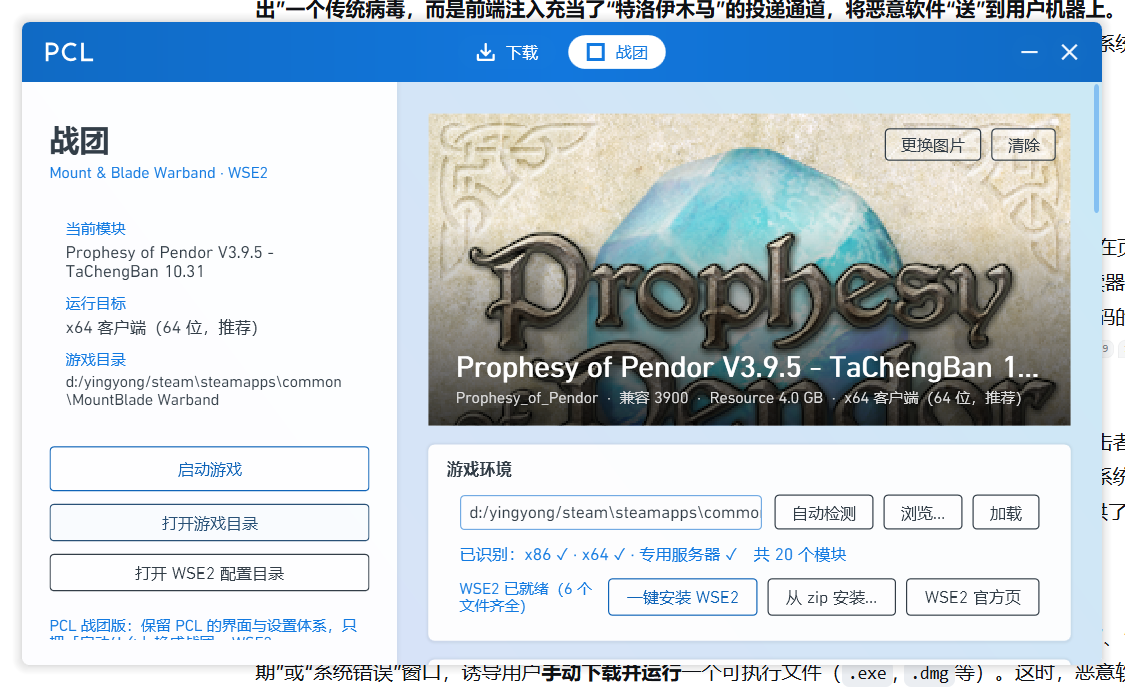
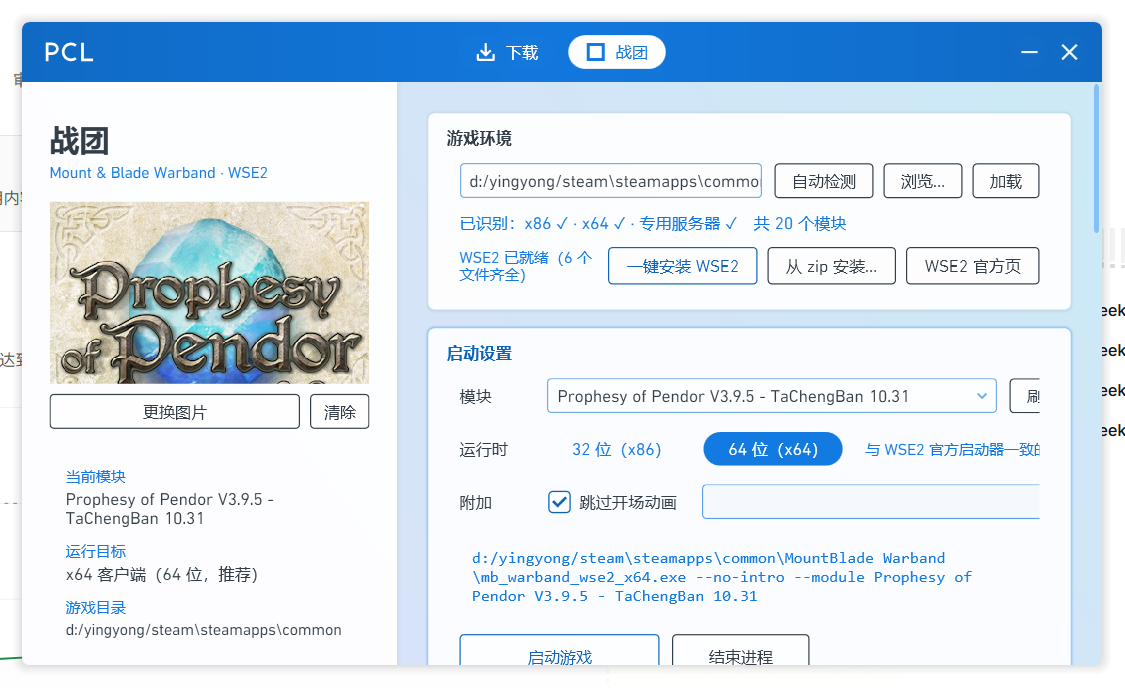
revert(warband): 撤掉顶部大横幅，恢复左侧栏模块预览图版式

diff --git a/Plain Craft Launcher 2/Pages/PageWarband/PageWarbandRight.xaml b/Plain Craft Launcher 2/Pages/PageWarband/PageWarbandRight.xaml
@@ -9,43 +9,7 @@
     <local:MyScrollViewer x:Name="PanBack" VerticalScrollBarVisibility="Auto" HorizontalScrollBarVisibility="Disabled">
         <StackPanel Margin="25,10">
 
-            <!-- 模块大图横幅（仿 WSE2 官方启动器：图在上、模块名压左下） -->
-            <Border CornerRadius="8" Height="250" Margin="0,15,0,0" ClipToBounds="True"
-                    Background="{DynamicResource ColorBrushSemiTransparent}">
-                <Grid>
-                    <local:MyImage x:Name="ImgBanner" Stretch="UniformToFill" />
-                    <Border x:Name="PanBannerEmpty">
-                        <StackPanel VerticalAlignment="Center" HorizontalAlignment="Center">
-                            <TextBlock Text="这个模块还没有预览图" FontSize="13" HorizontalAlignment="Center"
-                                       Foreground="{DynamicResource ColorBrush3}" />
-                            <TextBlock Text="点右上角「更换图片」选一张（png / jpg / webp / bmp）" FontSize="11"
-                                       Margin="0,6,0,0" HorizontalAlignment="Center"
-                                       Foreground="{DynamicResource ColorBrush3}" Opacity="0.8" />
-                        </StackPanel>
-                    </Border>
-                    <Border>
-                        <Border.Background>
-                            <LinearGradientBrush StartPoint="0,0.35" EndPoint="0,1">
-                                <GradientStop Color="#00000000" Offset="0" />
-                                <GradientStop Color="#C4000000" Offset="1" />
-                            </LinearGradientBrush>
-                        </Border.Background>
-                    </Border>
-                    <StackPanel VerticalAlignment="Bottom" Margin="22,0,22,16">
-                        <TextBlock x:Name="LabBannerTitle" Foreground="White" FontSize="22" FontWeight="Bold"
-                                   TextTrimming="CharacterEllipsis" />
-                        <TextBlock x:Name="LabBannerSub" Foreground="#DDDDDD" FontSize="12" Margin="0,5,0,0"
-                                   TextTrimming="CharacterEllipsis" />
-                    </StackPanel>
-                    <StackPanel Orientation="Horizontal" HorizontalAlignment="Right" VerticalAlignment="Top"
-                                Margin="0,12,12,0">
-                        <local:MyButton x:Name="BtnBannerChange" Text="更换图片" Height="26" Padding="12,3" />
-                        <local:MyButton x:Name="BtnBannerClear" Text="清除" Height="26" Padding="12,3" Margin="8,0,0,0" />
-                    </StackPanel>
-                </Grid>
-            </Border>
-
-            <local:MyCard Title="游戏环境" Margin="0,15">
+<local:MyCard Title="游戏环境" Margin="0,15">
                 <StackPanel Margin="25,40,25,20">
                     <Grid>
                         <Grid.ColumnDefinitions>

diff --git a/Plain Craft Launcher 2/Pages/PageWarband/PageWarbandLeft.xaml b/Plain Craft Launcher 2/Pages/PageWarband/PageWarbandLeft.xaml
@@ -12,7 +12,31 @@
             <TextBlock Text="Mount &amp; Blade Warband · WSE2" Margin="0,6,0,0" FontSize="12"
                        Foreground="{DynamicResource ColorBrush3}" />
 
-            <Border Background="{DynamicResource ColorBrushSemiTransparent}" CornerRadius="6" Padding="13,11" Margin="0,20,0,0">
+            <!-- 模块预览图（仿 WSE2 官方启动器） -->
+            <Border CornerRadius="7" Height="190" Margin="0,16,0,0" ClipToBounds="True"
+                    Background="{DynamicResource ColorBrushSemiTransparent}">
+                <Grid>
+                    <local:MyImage x:Name="ImgModuleArt" Stretch="UniformToFill" />
+                    <Border x:Name="PanArtEmpty" Background="{DynamicResource ColorBrushSemiTransparent}">
+                        <StackPanel VerticalAlignment="Center" HorizontalAlignment="Center">
+                            <TextBlock Text="暂无预览图" FontSize="12" HorizontalAlignment="Center"
+                                       Foreground="{DynamicResource ColorBrush3}" />
+                            <TextBlock Text="点下方「更换图片」" FontSize="11" Margin="0,4,0,0" HorizontalAlignment="Center"
+                                       Foreground="{DynamicResource ColorBrush3}" Opacity="0.8" />
+                        </StackPanel>
+                    </Border>
+                </Grid>
+            </Border>
+            <Grid Margin="0,8,0,0">
+                <Grid.ColumnDefinitions>
+                    <ColumnDefinition Width="1*" />
+                    <ColumnDefinition Width="Auto" />
+                </Grid.ColumnDefinitions>
+                <local:MyButton x:Name="BtnChangeArt" Grid.Column="0" Text="更换图片" Height="28" Padding="10,4" />
+                <local:MyButton x:Name="BtnClearArt" Grid.Column="1" Text="清除" Height="28" Padding="10,4" Margin="8,0,0,0" />
+            </Grid>
+
+            <Border Background="{DynamicResource ColorBrushSemiTransparent}" CornerRadius="6" Padding="13,11" Margin="0,16,0,0">
                 <StackPanel>
                     <TextBlock Text="当前模块" FontSize="12" Foreground="{DynamicResource ColorBrush3}" />
                     <TextBlock x:Name="LabLeftModule" TextWrapping="Wrap" Margin="0,4,0,0" />
